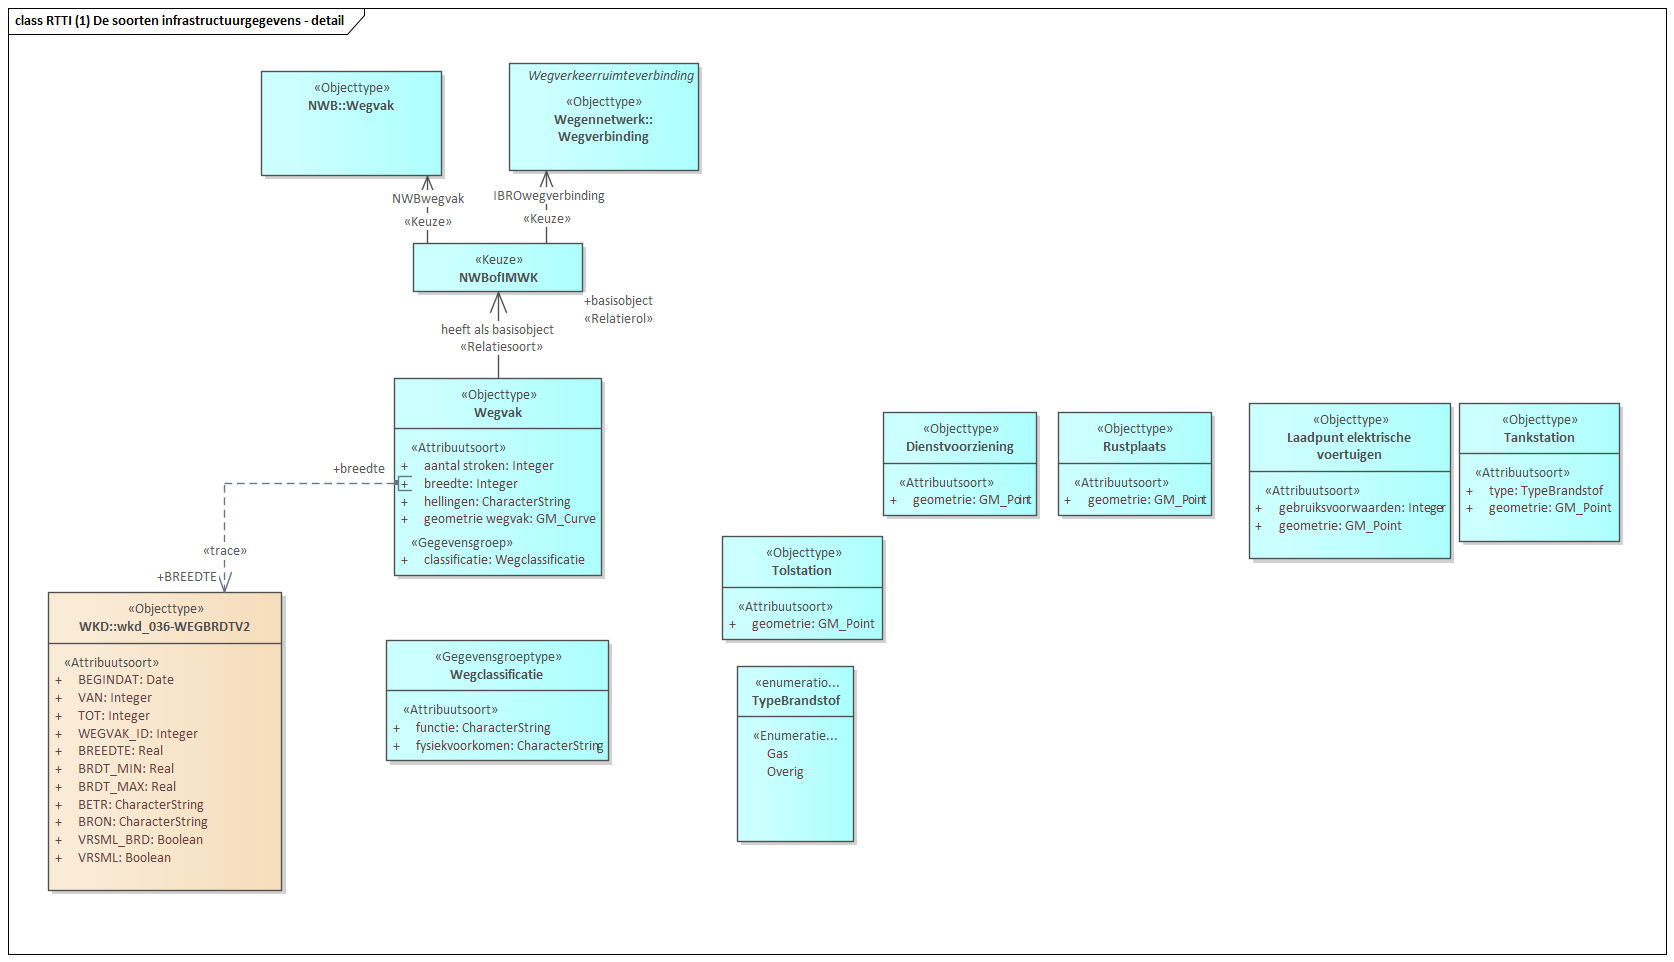
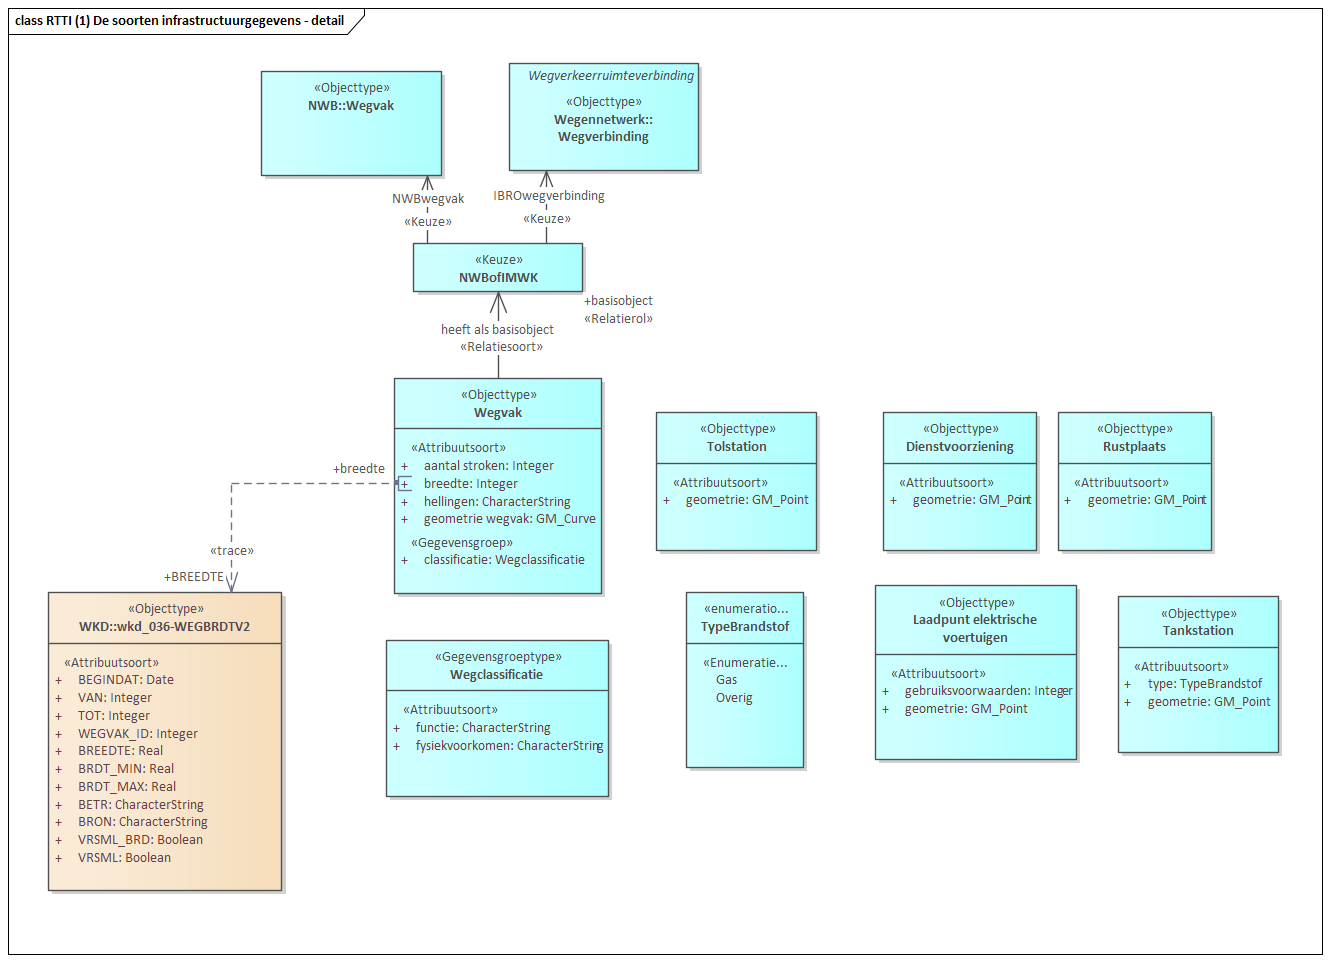
MIMCM-IMMob-conceptueel-1.0-1-20250414-20250424-161021

Changed region(s): [[0.0, 0.0, 1.0, 0.9979], [0.0, 0.0, 0.2774, 0.0312]]

diff --git a/data/IMMOB-cat.respec.html b/data/IMMOB-cat.respec.html
@@ -1,4 +1,4 @@
-<!DOCTYPE HTML><section id="cat" class="normative"><h2>Gegevensdefinitie</h2><!--MIMCM-IMMob-conceptueel-1.0-1-20250414-20250424-160601 imvertor 4.3.0--><section id="global_package_RTTI1Desoorteninfrastructuurgegevens"><h3>Domein   RTTI (1) De soorten infrastructuurgegevens</h3><section id="EAID_2ED628F2_C56A_4052_AE63_2AEBCBA14ED9"><h4>   RTTI (1) De soorten infrastructuurgegevens - detail</h4><div class="imageinfo "><figure class="uml-diagram"><img id="EAID_2ED628F2_C56A_4052_AE63_2AEBCBA14ED9" src="data/Images/EAID_2ED628F2_C56A_4052_AE63_2AEBCBA14ED9.png" usemap="#imagemap-EAID_2ED628F2_C56A_4052_AE63_2AEBCBA14ED9" alt="Diagram: RTTI (1) De soorten infrastructuurgegevens - detail"><figcaption> ‒ Diagram: RTTI (1) De soorten infrastructuurgegevens</figcaption></figure><map name="imagemap-EAID_2ED628F2_C56A_4052_AE63_2AEBCBA14ED9"><area shape="rect" alt="NWBofIMWK" coords="413,243,583,292" href="#global_class_RTTI1Desoorteninfrastructuurgegevens_NWBofIMWK"><area shape="rect" alt="Wegverbinding" coords="509,63,699,171" href="#global_class_IBRO_Wegverbinding"><area shape="rect" alt="Wegvak" coords="261,71,442,176" href="#global_class_NWB_Wegvak"><area shape="rect" alt="Wegbreedte" coords="48,592,282,891" href="#global_class_WKD_Wegbreedte"><area shape="rect" alt="TypeBrandstof" coords="737,666,854,842" href="#detail_class_RTTI1Desoorteninfrastructuurgegevens_TypeBrandstof"><area shape="rect" alt="Tankstation" coords="1459,403,1620,542" href="#global_class_RTTI1Desoorteninfrastructuurgegevens_Tankstation"><area shape="rect" alt="Laadpunt elektrische voertuigen" coords="1249,403,1451,559" href="#global_class_RTTI1Desoorteninfrastructuurgegevens_Laadpuntelektrischevoertuigen"><area shape="rect" alt="Rustplaats" coords="1058,412,1212,516" href="#global_class_RTTI1Desoorteninfrastructuurgegevens_Rustplaats"><area shape="rect" alt="Dienstvoorziening" coords="883,412,1037,516" href="#global_class_RTTI1Desoorteninfrastructuurgegevens_Dienstvoorziening"><area shape="rect" alt="Tolstation" coords="722,536,883,640" href="#global_class_RTTI1Desoorteninfrastructuurgegevens_Tolstation"><area shape="rect" alt="Wegclassificatie" coords="386,640,609,761" href="#global_class_RTTI1Desoorteninfrastructuurgegevens_Wegclassificatie"><area shape="rect" alt="Wegvak" coords="394,378,602,576" href="#global_class_RTTI1Desoorteninfrastructuurgegevens_Wegvak"></map><p>
+<!DOCTYPE HTML><section id="cat" class="normative"><h2>Gegevensdefinitie</h2><!--MIMCM-IMMob-conceptueel-1.0-1-20250414-20250424-161021 imvertor 4.3.0--><section id="global_package_RTTI1Desoorteninfrastructuurgegevens"><h3>Domein   RTTI (1) De soorten infrastructuurgegevens</h3><section id="EAID_2ED628F2_C56A_4052_AE63_2AEBCBA14ED9"><h4>   RTTI (1) De soorten infrastructuurgegevens - detail</h4><div class="imageinfo "><figure class="uml-diagram"><img id="EAID_2ED628F2_C56A_4052_AE63_2AEBCBA14ED9" src="data/Images/EAID_2ED628F2_C56A_4052_AE63_2AEBCBA14ED9.png" usemap="#imagemap-EAID_2ED628F2_C56A_4052_AE63_2AEBCBA14ED9" alt="Diagram: RTTI (1) De soorten infrastructuurgegevens - detail"><figcaption> ‒ Diagram: RTTI (1) De soorten infrastructuurgegevens</figcaption></figure><map name="imagemap-EAID_2ED628F2_C56A_4052_AE63_2AEBCBA14ED9"><area shape="rect" alt="NWBofIMWK" coords="413,243,583,292" href="#global_class_RTTI1Desoorteninfrastructuurgegevens_NWBofIMWK"><area shape="rect" alt="Wegverbinding" coords="509,63,699,171" href="#global_class_IBRO_Wegverbinding"><area shape="rect" alt="Wegvak" coords="261,71,442,176" href="#global_class_NWB_Wegvak"><area shape="rect" alt="Wegbreedte" coords="48,592,282,891" href="#global_class_WKD_Wegbreedte"><area shape="rect" alt="TypeBrandstof" coords="686,592,804,768" href="#detail_class_RTTI1Desoorteninfrastructuurgegevens_TypeBrandstof"><area shape="rect" alt="Tankstation" coords="1118,596,1279,753" href="#global_class_RTTI1Desoorteninfrastructuurgegevens_Tankstation"><area shape="rect" alt="Laadpunt elektrische voertuigen" coords="875,585,1077,760" href="#global_class_RTTI1Desoorteninfrastructuurgegevens_Laadpuntelektrischevoertuigen"><area shape="rect" alt="Rustplaats" coords="1058,412,1212,551" href="#global_class_RTTI1Desoorteninfrastructuurgegevens_Rustplaats"><area shape="rect" alt="Dienstvoorziening" coords="883,412,1037,551" href="#global_class_RTTI1Desoorteninfrastructuurgegevens_Dienstvoorziening"><area shape="rect" alt="Tolstation" coords="656,412,817,551" href="#global_class_RTTI1Desoorteninfrastructuurgegevens_Tolstation"><area shape="rect" alt="Wegclassificatie" coords="386,640,609,797" href="#global_class_RTTI1Desoorteninfrastructuurgegevens_Wegclassificatie"><area shape="rect" alt="Wegvak" coords="394,378,602,594" href="#global_class_RTTI1Desoorteninfrastructuurgegevens_Wegvak"></map><p>
                         <p></p>
                      </p></div></section><section><h4>Objecttypen   </h4>
             <section id="global_class_RTTI1Desoorteninfrastructuurgegevens_Wegvak"><h5>   Wegvak</h5>
@@ -290,7 +290,7 @@
             </section>
             
             
-         </section></section><section id="global_package_RTTI2Decrucialesoortengegevensoververkeersregelingenenbeperkingen"><h3>Domein   RTTI (2) De cruciale soorten gegevens over verkeersregelingen en -beperkingen</h3><section id="EAID_0BB5ED72_636C_4fff_AA6D_5887783D7E9F"><h4>   RTTI (2) De cruciale soorten gegevens over verkeersregelingen en -beperkingen - overzicht</h4><div class="imageinfo overview"><figure class="uml-diagram"><img id="EAID_0BB5ED72_636C_4fff_AA6D_5887783D7E9F" src="data/Images/EAID_0BB5ED72_636C_4fff_AA6D_5887783D7E9F.png" usemap="#imagemap-EAID_0BB5ED72_636C_4fff_AA6D_5887783D7E9F" alt="Diagram: RTTI (2) De cruciale soorten gegevens over verkeersregelingen en -beperkingen - overzicht"><figcaption> ‒ Diagram: RTTI (2) De cruciale soorten gegevens over verkeersregelingen en -beperkingen</figcaption></figure><map name="imagemap-EAID_0BB5ED72_636C_4fff_AA6D_5887783D7E9F"><area shape="rect" alt="Hoogtebeperkingen" coords="681,583,927,651" href="#global_class_WKD_Hoogtebeperkingen"><area shape="rect" alt="Verkeerscirculatieplan" coords="1047,63,1182,158" href="#global_class_RTTI2Decrucialesoortengegevensoververkeersregelingenenbeperkingen_Verkeerscirculatieplan"><area shape="rect" alt="Verkeersregelingen" coords="523,63,645,158" href="#global_class_RTTI2Decrucialesoortengegevensoververkeersregelingenenbeperkingen_Verkeersregelingen"><area shape="rect" alt="Toegangsvoorwaarden tunnels" coords="274,255,413,351" href="#global_class_RTTI2Decrucialesoortengegevensoververkeersregelingenenbeperkingen_Toegangsvoorwaardentunnels"><area shape="rect" alt="Toegangsvoorwaarden bruggen" coords="433,254,572,349" href="#global_class_RTTI2Decrucialesoortengegevensoververkeersregelingenenbeperkingen_Toegangsvoorwaardenbruggen"><area shape="rect" alt="Eenrichtingsstraten" coords="999,254,1122,349" href="#global_class_RTTI2Decrucialesoortengegevensoververkeersregelingenenbeperkingen_Eenrichtingsstraten"><area shape="rect" alt="Snelheidsbeperkingen" coords="610,254,793,379" href="#global_class_RTTI2Decrucialesoortengegevensoververkeersregelingenenbeperkingen_Snelheidsbeperkingen"><area shape="rect" alt="Regels voor leveren goederen" coords="745,401,868,497" href="#global_class_RTTI2Decrucialesoortengegevensoververkeersregelingenenbeperkingen_Regelsvoorleverengoederen"><area shape="rect" alt="Permanente toegangsbeperkingen" coords="362,386,484,482" href="#global_class_RTTI2Decrucialesoortengegevensoververkeersregelingenenbeperkingen_Permanentetoegangsbeperkingen"><area shape="rect" alt="Omkeerbare rijrichting" coords="1202,254,1325,349" href="#global_class_RTTI2Decrucialesoortengegevensoververkeersregelingenenbeperkingen_Omkeerbarerijrichting"><area shape="rect" alt="Inhaalverbod vrachtwagens" coords="828,254,951,349" href="#global_class_RTTI2Decrucialesoortengegevensoververkeersregelingenenbeperkingen_Inhaalverbodvrachtwagens"><area shape="rect" alt="Gereglementeerde verkeerszone" coords="1122,401,1244,497" href="#global_class_RTTI2Decrucialesoortengegevensoververkeersregelingenenbeperkingen_Gereglementeerdeverkeerszone"><area shape="rect" alt="Beperkingen o.b.v. gewicht/lengte/breedte/hoogte" coords="883,401,1068,497" href="#global_class_RTTI2Decrucialesoortengegevensoververkeersregelingenenbeperkingen_Beperkingenobvgewichtlengtebreedtehoogte"><area shape="rect" alt="Lengtebeperkingen" coords="1094,583,1217,678" href="#global_class_WKD_Lengtebeperkingen"><area shape="rect" alt="Aslastbeperkingen" coords="1445,63,1568,158" href="#global_class_WKD_Aslastbeperkingen"><area shape="rect" alt="Lastbeperkingen" coords="48,63,171,158" href="#global_class_WKD_Lastbeperkingen"></map><p>
+         </section></section><section id="global_package_RTTI2Decrucialesoortengegevensoververkeersregelingenenbeperkingen"><h3>Domein   RTTI (2) De cruciale soorten gegevens over verkeersregelingen en -beperkingen</h3><section id="EAID_0BB5ED72_636C_4fff_AA6D_5887783D7E9F"><h4>   RTTI (2) De cruciale soorten gegevens over verkeersregelingen en -beperkingen - overzicht</h4><div class="imageinfo overview"><figure class="uml-diagram"><img id="EAID_0BB5ED72_636C_4fff_AA6D_5887783D7E9F" src="data/Images/EAID_0BB5ED72_636C_4fff_AA6D_5887783D7E9F.png" usemap="#imagemap-EAID_0BB5ED72_636C_4fff_AA6D_5887783D7E9F" alt="Diagram: RTTI (2) De cruciale soorten gegevens over verkeersregelingen en -beperkingen - overzicht"><figcaption> ‒ Diagram: RTTI (2) De cruciale soorten gegevens over verkeersregelingen en -beperkingen</figcaption></figure><map name="imagemap-EAID_0BB5ED72_636C_4fff_AA6D_5887783D7E9F"><area shape="rect" alt="Hoogtebeperkingen" coords="519,524,641,570" href="#global_class_WKD_Hoogtebeperkingen"><area shape="rect" alt="Verkeerscirculatieplan" coords="1086,327,1221,374" href="#global_class_RTTI2Decrucialesoortengegevensoververkeersregelingenenbeperkingen_Verkeerscirculatieplan"><area shape="rect" alt="Verkeersregelingen" coords="311,63,434,109" href="#global_class_RTTI2Decrucialesoortengegevensoververkeersregelingenenbeperkingen_Verkeersregelingen"><area shape="rect" alt="Toegangsvoorwaarden tunnels" coords="48,203,187,292" href="#global_class_RTTI2Decrucialesoortengegevensoververkeersregelingenenbeperkingen_Toegangsvoorwaardentunnels"><area shape="rect" alt="Toegangsvoorwaarden bruggen" coords="206,202,345,291" href="#global_class_RTTI2Decrucialesoortengegevensoververkeersregelingenenbeperkingen_Toegangsvoorwaardenbruggen"><area shape="rect" alt="Eenrichtingsstraten" coords="772,202,895,248" href="#global_class_RTTI2Decrucialesoortengegevensoververkeersregelingenenbeperkingen_Eenrichtingsstraten"><area shape="rect" alt="Snelheidsbeperkingen" coords="383,202,566,306" href="#global_class_RTTI2Decrucialesoortengegevensoververkeersregelingenenbeperkingen_Snelheidsbeperkingen"><area shape="rect" alt="Regels voor leveren goederen" coords="519,349,641,438" href="#global_class_RTTI2Decrucialesoortengegevensoververkeersregelingenenbeperkingen_Regelsvoorleverengoederen"><area shape="rect" alt="Permanente toegangsbeperkingen" coords="135,334,258,423" href="#global_class_RTTI2Decrucialesoortengegevensoververkeersregelingenenbeperkingen_Permanentetoegangsbeperkingen"><area shape="rect" alt="Omkeerbare rijrichting" coords="976,202,1099,291" href="#global_class_RTTI2Decrucialesoortengegevensoververkeersregelingenenbeperkingen_Omkeerbarerijrichting"><area shape="rect" alt="Inhaalverbod vrachtwagens" coords="602,202,725,291" href="#global_class_RTTI2Decrucialesoortengegevensoververkeersregelingenenbeperkingen_Inhaalverbodvrachtwagens"><area shape="rect" alt="Gereglementeerde verkeerszone" coords="895,349,1018,438" href="#global_class_RTTI2Decrucialesoortengegevensoververkeersregelingenenbeperkingen_Gereglementeerdeverkeerszone"><area shape="rect" alt="Beperkingen o.b.v. gewicht/lengte/breedte/hoogte" coords="656,349,842,438" href="#global_class_RTTI2Decrucialesoortengegevensoververkeersregelingenenbeperkingen_Beperkingenobvgewichtlengtebreedtehoogte"><area shape="rect" alt="Lengtebeperkingen" coords="831,549,954,595" href="#global_class_WKD_Lengtebeperkingen"><area shape="rect" alt="Aslastbeperkingen" coords="1094,502,1217,549" href="#global_class_WKD_Aslastbeperkingen"><area shape="rect" alt="Lastbeperkingen" coords="322,524,445,570" href="#global_class_WKD_Lastbeperkingen"></map><p>
                         <p></p>
                      </p></div></section><section><h4>Objecttypen   </h4>
             <section id="global_class_RTTI2Decrucialesoortengegevensoververkeersregelingenenbeperkingen_Eenrichtingsstraten"><h5>   Eenrichtingsstraten</h5>
@@ -480,7 +480,7 @@
             
             
             
-         </section></section><section id="global_package_IBRO"><h3>View   IBRO</h3><section id="EAID_8C3C381A_39AA_4e7e_9964_9080BA3863CE"><h4>   Transportnetwerk - overzicht</h4><div class="imageinfo overview"><figure class="uml-diagram"><img id="EAID_8C3C381A_39AA_4e7e_9964_9080BA3863CE" src="data/Images/EAID_8C3C381A_39AA_4e7e_9964_9080BA3863CE.png" usemap="#imagemap-EAID_8C3C381A_39AA_4e7e_9964_9080BA3863CE" alt="Diagram: Transportnetwerk - overzicht"><figcaption> ‒ Diagram: Transportnetwerk</figcaption></figure><map name="imagemap-EAID_8C3C381A_39AA_4e7e_9964_9080BA3863CE"><area shape="rect" alt="FunctioneleZone" coords="706,76,886,172" href="#global_class_IBRO_FunctioneleZone"><area shape="rect" alt="Knoop" coords="587,328,741,453" href="#global_class_IBRO_Knoop"><area shape="rect" alt="Verbinding" coords="60,328,218,471" href="#global_class_IBRO_Verbinding"><area shape="rect" alt="ReeelObject" coords="48,93,224,197" href="#global_class_IBRO_ReeelObject"><area shape="rect" alt="FunctioneleRuimte" coords="321,63,532,184" href="#global_class_IBRO_FunctioneleRuimte"><area shape="rect" alt="Transportverbinding" coords="218,523,341,629" href="#global_class_IBRO_Transportverbinding"><area shape="rect" alt="Transportruimte" coords="341,300,464,396" href="#global_class_IBRO_Transportruimte"><area shape="rect" alt="Transportknoop" coords="464,510,587,603" href="#global_class_IBRO_Transportknoop"></map><p>
+         </section></section><section id="global_package_IBRO"><h3>View   IBRO</h3><section id="EAID_8C3C381A_39AA_4e7e_9964_9080BA3863CE"><h4>   Transportnetwerk - overzicht</h4><div class="imageinfo overview"><figure class="uml-diagram"><img id="EAID_8C3C381A_39AA_4e7e_9964_9080BA3863CE" src="data/Images/EAID_8C3C381A_39AA_4e7e_9964_9080BA3863CE.png" usemap="#imagemap-EAID_8C3C381A_39AA_4e7e_9964_9080BA3863CE" alt="Diagram: Transportnetwerk - overzicht"><figcaption> ‒ Diagram: Transportnetwerk</figcaption></figure><map name="imagemap-EAID_8C3C381A_39AA_4e7e_9964_9080BA3863CE"><area shape="rect" alt="FunctioneleZone" coords="706,76,886,172" href="#global_class_IBRO_FunctioneleZone"><area shape="rect" alt="Knoop" coords="587,328,741,453" href="#global_class_IBRO_Knoop"><area shape="rect" alt="Verbinding" coords="60,328,218,471" href="#global_class_IBRO_Verbinding"><area shape="rect" alt="ReeelObject" coords="48,93,224,197" href="#global_class_IBRO_ReeelObject"><area shape="rect" alt="FunctioneleRuimte" coords="321,63,532,184" href="#global_class_IBRO_FunctioneleRuimte"><area shape="rect" alt="Transportverbinding" coords="218,523,341,629" href="#global_class_IBRO_Transportverbinding"><area shape="rect" alt="Transportruimte" coords="341,328,464,423" href="#global_class_IBRO_Transportruimte"><area shape="rect" alt="Transportknoop" coords="464,510,587,603" href="#global_class_IBRO_Transportknoop"></map><p>
                         <p></p>
                      </p></div></section><section id="EAID_B95EF39F_7615_4932_9934_4F906CE77BA3"><h4>   Wegennetwerk - overzicht</h4><div class="imageinfo overview"><figure class="uml-diagram"><img id="EAID_B95EF39F_7615_4932_9934_4F906CE77BA3" src="data/Images/EAID_B95EF39F_7615_4932_9934_4F906CE77BA3.png" usemap="#imagemap-EAID_B95EF39F_7615_4932_9934_4F906CE77BA3" alt="Diagram: Wegennetwerk - overzicht"><figcaption> ‒ Diagram: Wegennetwerk</figcaption></figure><map name="imagemap-EAID_B95EF39F_7615_4932_9934_4F906CE77BA3"><area shape="rect" alt="Wegverkeerruimteverbinding" coords="379,551,551,673" href="#global_class_IBRO_Wegverkeerruimteverbinding"><area shape="rect" alt="FunctioneleZone" coords="257,227,379,322" href="#global_class_IBRO_FunctioneleZone"><area shape="rect" alt="Transportknoop" coords="1345,525,1501,621" href="#global_class_IBRO_Transportknoop"><area shape="rect" alt="Transportverbinding" coords="521,344,705,439" href="#global_class_IBRO_Transportverbinding"><area shape="rect" alt="Transportruimte" coords="715,227,838,322" href="#global_class_IBRO_Transportruimte"><area shape="rect" alt="Strookverbinding" coords="48,1105,248,1231" href="#global_class_IBRO_Strookverbinding"><area shape="rect" alt="Strookknoop" coords="1456,914,1595,978" href="#global_class_IBRO_Strookknoop"><area shape="rect" alt="Baanverbinding" coords="318,853,532,1014" href="#global_class_IBRO_Baanverbinding"><area shape="rect" alt="Baanknoop" coords="1333,790,1456,856" href="#global_class_IBRO_Baanknoop"><area shape="rect" alt="VerkeerskundigFunctioneleZone" coords="352,1105,542,1229" href="#global_class_IBRO_VerkeerskundigFunctioneleZone"><area shape="rect" alt="Rijrichting" coords="176,573,299,689" href="#detail_class_IBRO_Rijrichting"><area shape="rect" alt="Openbare ruimte" coords="912,504,1169,660" href="#global_class_IBRO_Openbareruimte"><area shape="rect" alt="Wegverbinding" coords="730,853,992,1010" href="#global_class_IBRO_Wegverbinding"><area shape="rect" alt="Wegknoop" coords="1018,794,1231,853" href="#global_class_IBRO_Wegknoop"></map><p>
                         <p></p>
@@ -3495,7 +3495,7 @@
             
             
             
-         </section></section></section><section id="lis" class="normative"><h2>Inhoud van waardelijsten</h2><!--MIMCM-IMMob-conceptueel-1.0-1-20250414-20250424-160601 imvertor 4.3.0--><section><h3>Enumeratie inhoud   </h3><section id="detail_class_RTTI1Desoorteninfrastructuurgegevens_TypeBrandstof"><h4>Enumeratie details  TypeBrandstof</h4>
+         </section></section></section><section id="lis" class="normative"><h2>Inhoud van waardelijsten</h2><!--MIMCM-IMMob-conceptueel-1.0-1-20250414-20250424-161021 imvertor 4.3.0--><section><h3>Enumeratie inhoud   </h3><section id="detail_class_RTTI1Desoorteninfrastructuurgegevens_TypeBrandstof"><h4>Enumeratie details  TypeBrandstof</h4>
             <table style="width: 100%;" class="list"><colgroup></colgroup><tbody><tr><td></td></tr></tbody></table>
             <table style="width: 100%;" class="list"><colgroup style="width: 40%;"></colgroup><colgroup style="width: 60%;"></colgroup><tbody><tr><th>Waarde</th><th>Omschrijving</th></tr><tr><th>Gas</th><td></td></tr><tr><th>Overig</th><td></td></tr></tbody></table>
          </section><section id="detail_class_IBRO_Rijrichting"><h4>Enumeratie details  Rijrichting</h4>
